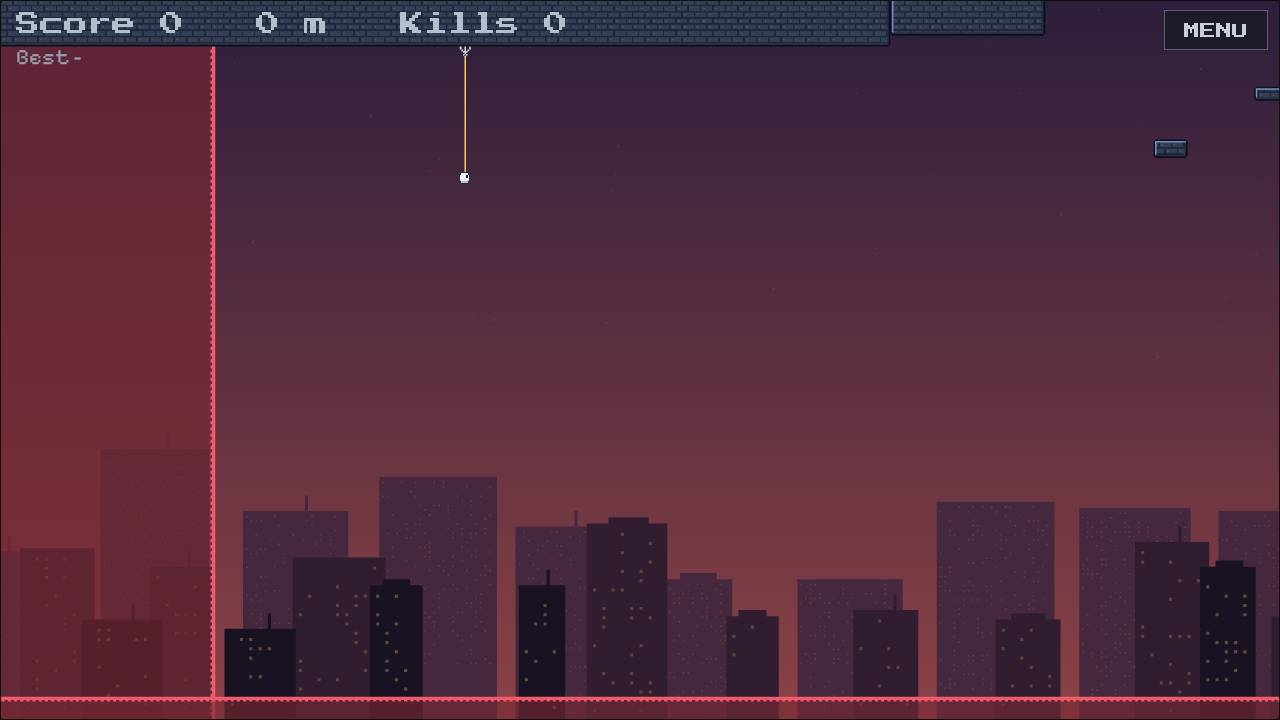
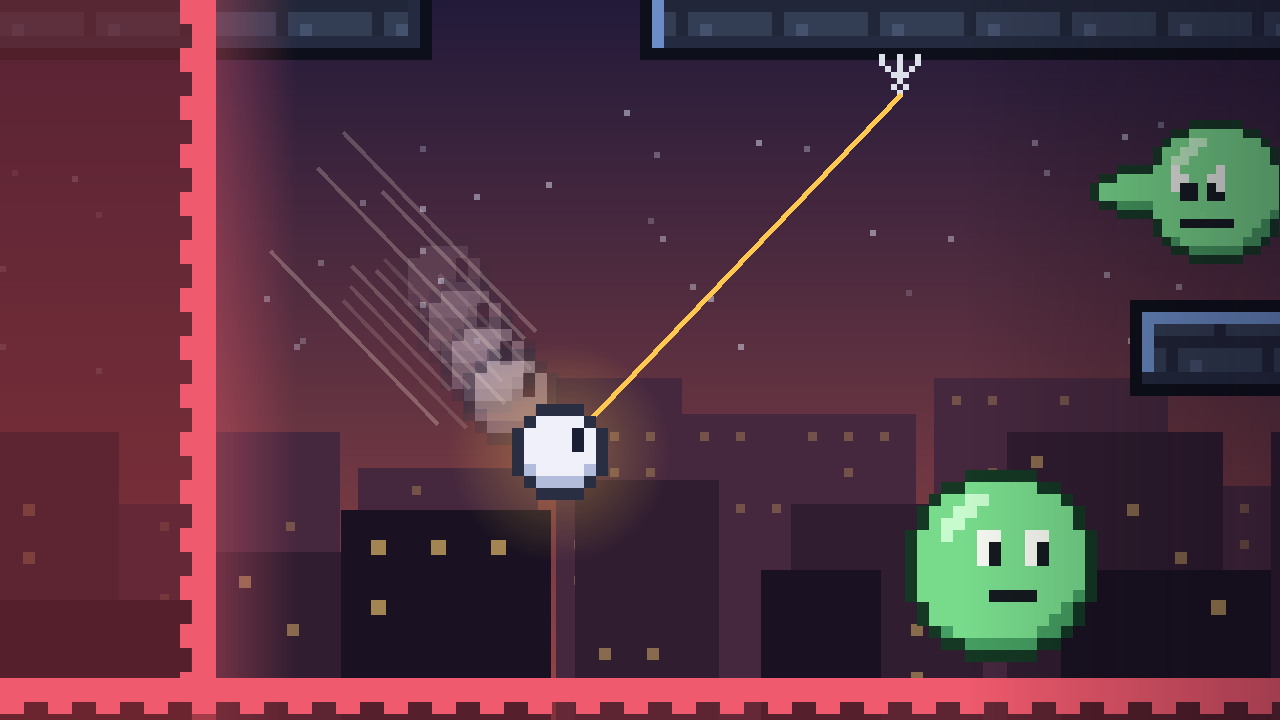
feat(site): grapnl の画像を、自機に寄った動きのある絵にする
開いた直後のゲーム画面は自機が小さく、ぶら下がっているだけで動きが無かった。
ゲームのドット絵と色(自機・敵・天井・夕焼けの街・赤い領域)をそのまま使い、
自機に寄って、振り子で振れる残像と速さの線、迫る壁と敵を入れた絵を描く。

diff --git a/apps/site/src/games.ts b/apps/site/src/games.ts
@@ -2,7 +2,7 @@ import type { ImageMetadata } from 'astro';
 import grapnl from './assets/games/grapnl.png';
 
 /**
- * ゲームの画面の画像。カードとゲームページに出す。1280×720 のスクリーンショットを置く。
+ * ゲームの画像。カードとゲームページに出す。16:9(1280×720)で、そのゲームのドット絵で描いたものを置く。
  * 無いゲームはロゴのシンボルを出す
  */
 export const gameImages: Readonly<Record<string, ImageMetadata>> = { grapnl };
